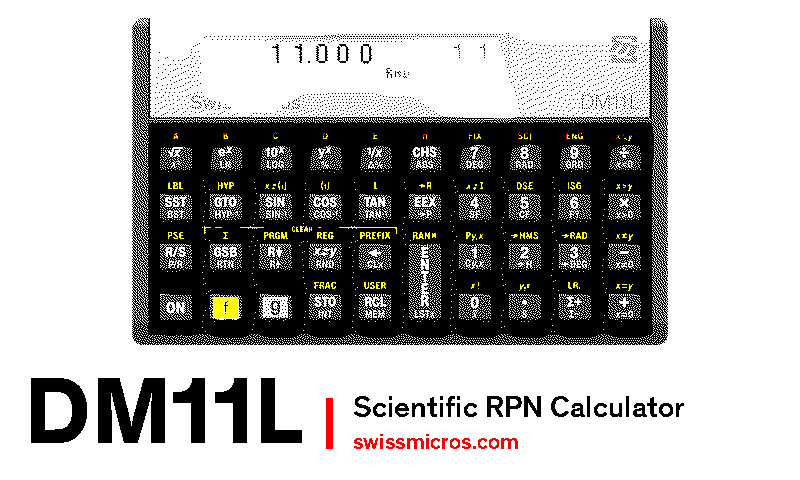
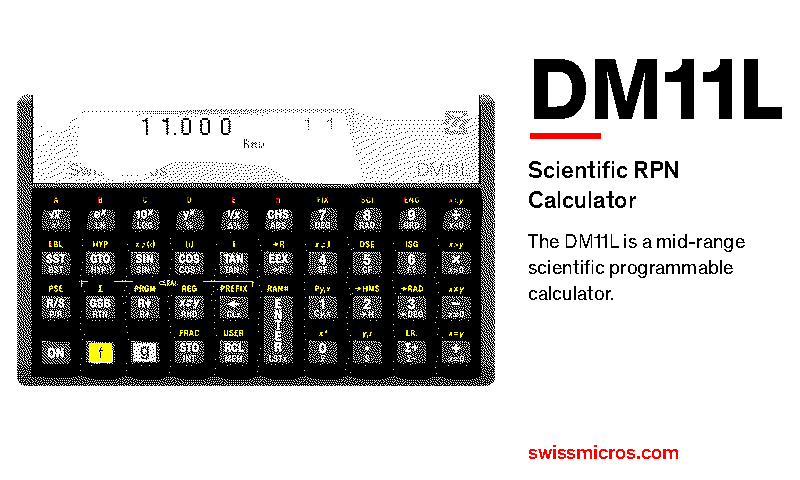
Show the webshop product description next to each calculator
New layout for all images: calculator on the left, text column on the right
with model, subtitle and the first paragraph of the product description,
cut at the last whole sentence that fits.

diff --git a/tools/build_images.py b/tools/build_images.py
@@ -11,6 +11,7 @@ Usage:  python tools/build_images.py --font-dir DIR   download, render and pack
 """
 
 import argparse
+import html
 import io
 import re
 import urllib.request
@@ -56,14 +57,48 @@ def fetch(url: str) -> bytes:
         return r.read()
 
 
-def product_photo(slug: str) -> Image.Image:
-    html = fetch(SHOP + slug).decode("utf-8", "replace")
-    m = re.search(r'https://swissmicros-webshop-media[^"\\ ]*?\.(?:md|lg)\.webp', html)
+def product_page(slug: str) -> tuple[Image.Image, str]:
+    """Main product photo and the first paragraph of the product description."""
+    page = fetch(SHOP + slug).decode("utf-8", "replace")
+    m = re.search(r'https://swissmicros-webshop-media[^"\\ ]*?\.(?:md|lg)\.webp', page)
     if not m:
         raise RuntimeError(f"no product image found for {slug}")
     url = re.sub(r"\.md\.webp$", ".lg.webp", m.group(0))
     im = Image.open(io.BytesIO(fetch(url))).convert("RGBA")
-    return im.crop(im.getbbox())  # trim transparent padding
+    d = re.search(r'<div class="prose[^"]*"><p>(.*?)</p>', page, re.S)
+    if not d:
+        raise RuntimeError(f"no product description found for {slug}")
+    # Tags become spaces: some descriptions separate sentences with <br>.
+    text = html.unescape(re.sub(r"<[^>]+>", " ", d.group(1)))
+    text = re.sub(r"\s+", " ", text).strip()
+    return im.crop(im.getbbox()), text  # trim transparent padding
+
+
+def wrap(draw: ImageDraw.ImageDraw, text: str, font: ImageFont.FreeTypeFont, width: int) -> list[str]:
+    lines, line = [], ""
+    for word in text.split():
+        candidate = f"{line} {word}".strip()
+        if line and draw.textlength(candidate, font=font) > width:
+            lines.append(line)
+            line = word
+        else:
+            line = candidate
+    return lines + [line] if line else lines
+
+
+def fit_description(draw, text, font, width, max_lines) -> list[str]:
+    """Wrap text into at most max_lines lines, cutting at the last whole sentence
+    that fits; if not even the first sentence fits, cut it with an ellipsis."""
+    sentences = re.split(r"(?<=[.!?])\s+", text)
+    for n in range(len(sentences), 0, -1):
+        lines = wrap(draw, " ".join(sentences[:n]), font, width)
+        if len(lines) <= max_lines:
+            return lines
+    lines = wrap(draw, text, font, width)[:max_lines]
+    while draw.textlength(lines[-1] + "…", font=font) > width:
+        lines[-1] = lines[-1].rsplit(" ", 1)[0]
+    lines[-1] += "…"
+    return lines
 
 
 def dither(im: Image.Image) -> Image.Image:
@@ -98,28 +133,14 @@ def dither(im: Image.Image) -> Image.Image:
     return Image.fromarray(np.array(PURE, dtype=np.uint8)[out], "RGB")
 
 
-def render(photo: Image.Image, model: str, subtitle: str, fonts: Path) -> Image.Image:
-    bold = ImageFont.truetype(str(fonts / "Theinhardt-Bold.otf"), 96)
-    medium = ImageFont.truetype(str(fonts / "Theinhardt-Medium.otf"), 30)
-    small = ImageFont.truetype(str(fonts / "Theinhardt-Medium.otf"), 22)
-
+def render(photo: Image.Image, model: str, subtitle: str, description: str, fonts: Path) -> Image.Image:
+    """Calculator on the left, text column (model, subtitle, description) on the right.
+    The bottom-right corner (x >= 684, y >= 446) stays empty for the battery icon."""
     canvas = Image.new("RGB", (W, H), WHITE)
     margin = 16
-    portrait = photo.height > photo.width
-    if portrait:
-        # Calculator on the left at full height, text column on the right.
-        box = (W // 2 - margin, H - 2 * margin)
-        p = photo.copy()
-        p.thumbnail(box, Image.Resampling.LANCZOS)
-        pos = (margin + (box[0] - p.width) // 2, margin + (box[1] - p.height) // 2)
-        text_x, text_y, text_w = W // 2 + 10, 150, W // 2 - 10 - margin
-    else:
-        # Calculator across the top, text below.
-        box = (W - 2 * margin, H - 150)
-        p = photo.copy()
-        p.thumbnail(box, Image.Resampling.LANCZOS)
-        pos = ((W - p.width) // 2, margin)
-        text_x, text_y, text_w = margin + 8, pos[1] + p.height + 6, W - 2 * margin
+    p = photo.copy()
+    p.thumbnail((int(W * 0.6), H - 2 * margin), Image.Resampling.LANCZOS)
+    pos = (margin, (H - p.height) // 2)
     layer = Image.new("RGB", p.size, WHITE)
     layer.paste(p, mask=p.split()[3])
     canvas.paste(dither(layer), pos)
@@ -127,16 +148,33 @@ def render(photo: Image.Image, model: str, subtitle: str, fonts: Path) -> Image.
     # Text is drawn after dithering without anti-aliasing so edges stay crisp.
     d = ImageDraw.Draw(canvas)
     d.fontmode = "1"
-    d.text((text_x, text_y), model, font=bold, fill=BLACK)
-    if portrait:
-        d.rectangle((text_x + 2, text_y + 112, text_x + 82, text_y + 118), fill=RED)
-        d.text((text_x, text_y + 136), subtitle, font=medium, fill=BLACK)
-        d.text((text_x, H - margin - 30), "swissmicros.com", font=small, fill=RED)
-    else:
-        mw = d.textlength(model, font=bold)
-        d.rectangle((text_x + mw + 24, text_y + 46, text_x + mw + 30, text_y + 96), fill=RED)
-        d.text((text_x + mw + 50, text_y + 36), subtitle, font=medium, fill=BLACK)
-        d.text((text_x + mw + 50, text_y + 76), "swissmicros.com", font=small, fill=RED)
+    x = pos[0] + p.width + 32
+    col_w = W - margin - x
+    size = 96
+    while True:
+        title = ImageFont.truetype(str(fonts / "Theinhardt-Bold.otf"), size)
+        if d.textlength(model, font=title) <= col_w:
+            break
+        size -= 4
+    medium = ImageFont.truetype(str(fonts / "Theinhardt-Medium.otf"), 24)
+    body = ImageFont.truetype(str(fonts / "Theinhardt-Regular.otf"), 20)
+    small = ImageFont.truetype(str(fonts / "Theinhardt-Medium.otf"), 20)
+
+    y = 36
+    d.text((x, y), model, font=title, fill=BLACK)
+    y = d.textbbox((x, y), model, font=title)[3] + 14
+    d.rectangle((x + 2, y, x + 72, y + 5), fill=RED)
+    y += 22
+    for line in wrap(d, subtitle, medium, col_w):
+        d.text((x, y), line, font=medium, fill=BLACK)
+        y += 30
+    y += 14
+    line_h = 26
+    bottom = H - margin - 34  # keep clear of the "swissmicros.com" line
+    for line in fit_description(d, description, body, col_w, (bottom - y) // line_h):
+        d.text((x, y), line, font=body, fill=BLACK)
+        y += line_h
+    d.text((x, H - margin - 24), "swissmicros.com", font=small, fill=RED)
     return canvas
 
 
@@ -191,7 +229,8 @@ def main() -> None:
             old.unlink()
         for i, (slug, model, subtitle) in enumerate(CALCULATORS):
             name = f"{i:02d}_{slug}"
-            render(product_photo(slug), model, subtitle, args.font_dir).save(OUT / f"{name}.png")
+            photo, description = product_page(slug)
+            render(photo, model, subtitle, description, args.font_dir).save(OUT / f"{name}.png")
             print(f"rendered {name}")
     pack(sorted(OUT.glob("*.png")))
 
